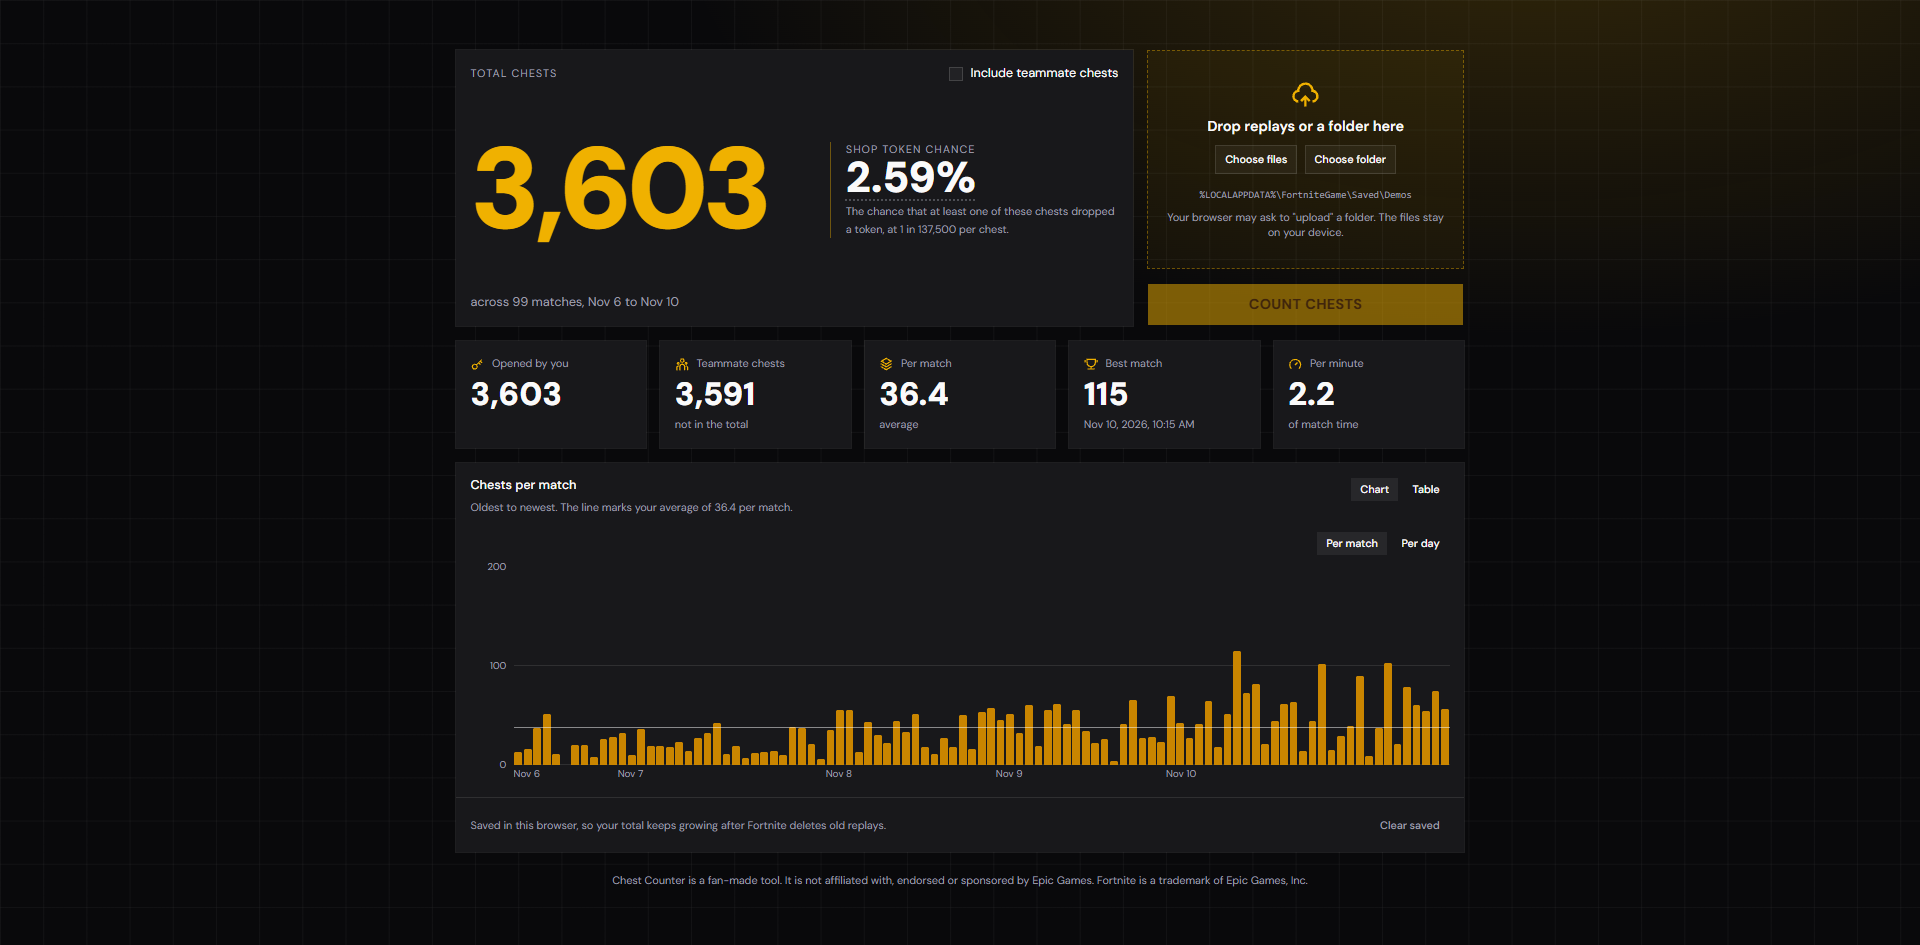
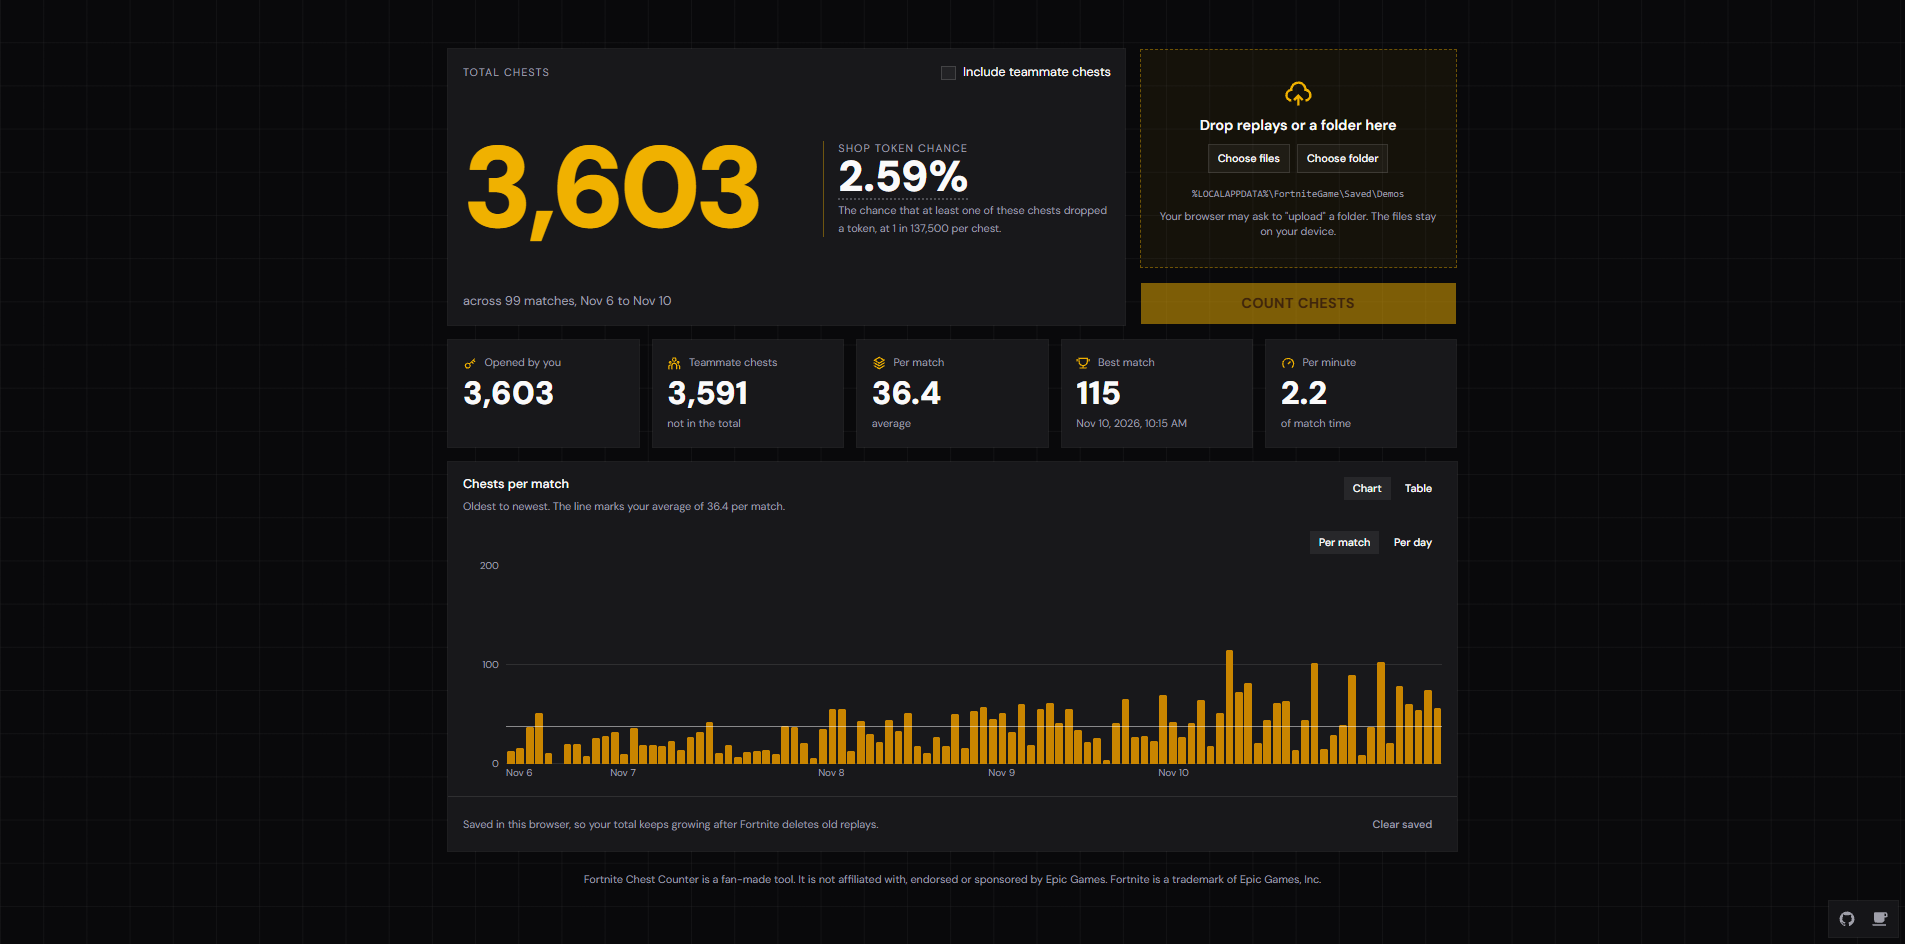
Rename to Fortnite Chest Counter and tidy the replay list
- Name reads "Fortnite Chest Counter" in the link preview, README and footer.
- Replay list no longer stretches the Total chests card: the drop zone
  hides its icon and hints once replays are added, and the list scrolls
  in the space they took.
- Thin grey scrollbar on the replay list.
- Gold glow removed from the top right of the page.
- README screenshots retaken.

diff --git a/src/components/replay-picker.tsx b/src/components/replay-picker.tsx
@@ -2,6 +2,7 @@ import { useRef } from "react";
 import { RiCloseLine, RiUploadCloud2Line } from "@remixicon/react";
 import { Button } from "@/components/ui/button";
 import { toast } from "@/components/ui/toast";
+import { cn } from "@/lib/utils";
 
 // Every file in a drop, including the files inside dropped folders (dataTransfer.files lists a folder as one empty entry).
 async function droppedFiles(items: DataTransferItemList): Promise<File[]> {
@@ -63,6 +64,9 @@ export function ReplayPicker({
     e.target.value = ""; // so picking the same files again still fires
   };
 
+  // With replays listed, the drop zone drops its icon and hints so the list fits in the height they took.
+  const compact = files.length > 0;
+
   return (
     <>
       <div
@@ -74,9 +78,12 @@ export function ReplayPicker({
             toast.add({ type: "error", title: "Could not read that drop" }),
           );
         }}
-        className="flex flex-col items-center gap-2 border-2 border-dashed border-primary/40 bg-primary/5 px-4 py-8 text-center"
+        className={cn(
+          "flex flex-col items-center gap-2 border-2 border-dashed border-primary/40 bg-primary/5 px-4 text-center",
+          compact ? "py-4" : "py-8",
+        )}
       >
-        <RiUploadCloud2Line className="size-8 text-primary" />
+        {!compact && <RiUploadCloud2Line className="size-8 text-primary" />}
         <span className="font-semibold">Drop replays or a folder here</span>
         <div className="flex flex-wrap justify-center gap-2">
           <Button
@@ -94,13 +101,17 @@ export function ReplayPicker({
             Choose folder
           </Button>
         </div>
-        <code className="mt-2 text-[11px] break-all text-muted-foreground">
-          %LOCALAPPDATA%\FortniteGame\Saved\Demos
-        </code>
-        <span className="text-xs text-muted-foreground">
-          Your browser may ask to "upload" a folder. The files stay on your
-          device.
-        </span>
+        {!compact && (
+          <>
+            <code className="mt-2 text-[11px] break-all text-muted-foreground">
+              %LOCALAPPDATA%\FortniteGame\Saved\Demos
+            </code>
+            <span className="text-xs text-muted-foreground">
+              Your browser may ask to "upload" a folder. The files stay on your
+              device.
+            </span>
+          </>
+        )}
         <input
           ref={fileInput}
           type="file"
@@ -120,7 +131,8 @@ export function ReplayPicker({
       </div>
 
       {files.length > 0 && (
-        <ul className="max-h-56 divide-y overflow-y-auto border bg-card text-sm">
+        // fixed height on desktop: the space the hidden hints took, so the row beside it never changes height
+        <ul className="max-h-38 divide-y overflow-y-auto border bg-card text-sm [scrollbar-color:--theme(--color-muted-foreground/50%)_transparent] scrollbar-thin lg:h-38">
           {files.map((file, i) => (
             <li key={i} className="flex items-center gap-2 px-3 py-2">
               <span className="flex-1 truncate">{file.name}</span>

diff --git a/src/App.tsx b/src/App.tsx
@@ -117,10 +117,6 @@ function App() {
     <div className="relative min-h-svh overflow-hidden">
       <div
         aria-hidden
-        className="pointer-events-none absolute inset-0 bg-[radial-gradient(60rem_30rem_at_80%_-10%,--theme(--color-primary/18%),transparent)]"
-      />
-      <div
-        aria-hidden
         className="pointer-events-none absolute inset-0 bg-[linear-gradient(to_right,--theme(--color-foreground/4%)_1px,transparent_1px),linear-gradient(to_bottom,--theme(--color-foreground/4%)_1px,transparent_1px)] bg-[size:3rem_3rem]"
       />
 
@@ -166,7 +162,7 @@ function App() {
 
         {/* bottom padding keeps the last line clear of the pinned links on a narrow screen */}
         <footer className="pt-2 pb-8 text-center text-xs text-muted-foreground">
-          Chest Counter is a fan-made tool. It is not affiliated with, endorsed
+          Fortnite Chest Counter is a fan-made tool. It is not affiliated with, endorsed
           or sponsored by Epic Games. Fortnite is a trademark of Epic Games,
           Inc.
         </footer>

diff --git a/index.html b/index.html
@@ -11,7 +11,7 @@
     />
     <!-- Link previews (Discord, X, WhatsApp...). They need a full image URL: vite.config.ts fills in %SITE_URL% from Vercel's domain on deploy; it is empty in local builds. -->
     <meta property="og:type" content="website" />
-    <meta property="og:title" content="Chest Counter" />
+    <meta property="og:title" content="Fortnite Chest Counter" />
     <meta
       property="og:description"
       content="Count every chest you opened in Fortnite, straight from your replay files, and see your shop token chance."

diff --git a/README.md b/README.md
@@ -1,6 +1,6 @@
-# Chest Counter
+# Fortnite Chest Counter
 
-![Chest Counter: count every chest you opened, straight from your replay files](public/og.png)
+![Fortnite Chest Counter: count every chest you opened, straight from your replay files](public/og.png)
 
 Counts the chests you opened in Fortnite by reading your replay files, and works out your chance of having received the event's shop token.
 
@@ -74,4 +74,4 @@ Some things used here are not covered by that license and stay under their own t
 
 ## Not affiliated with Epic Games
 
-Chest Counter is a fan-made tool. It is not affiliated with, endorsed or sponsored by Epic Games. Fortnite is a trademark of Epic Games, Inc.
+Fortnite Chest Counter is a fan-made tool. It is not affiliated with, endorsed or sponsored by Epic Games. Fortnite is a trademark of Epic Games, Inc.
